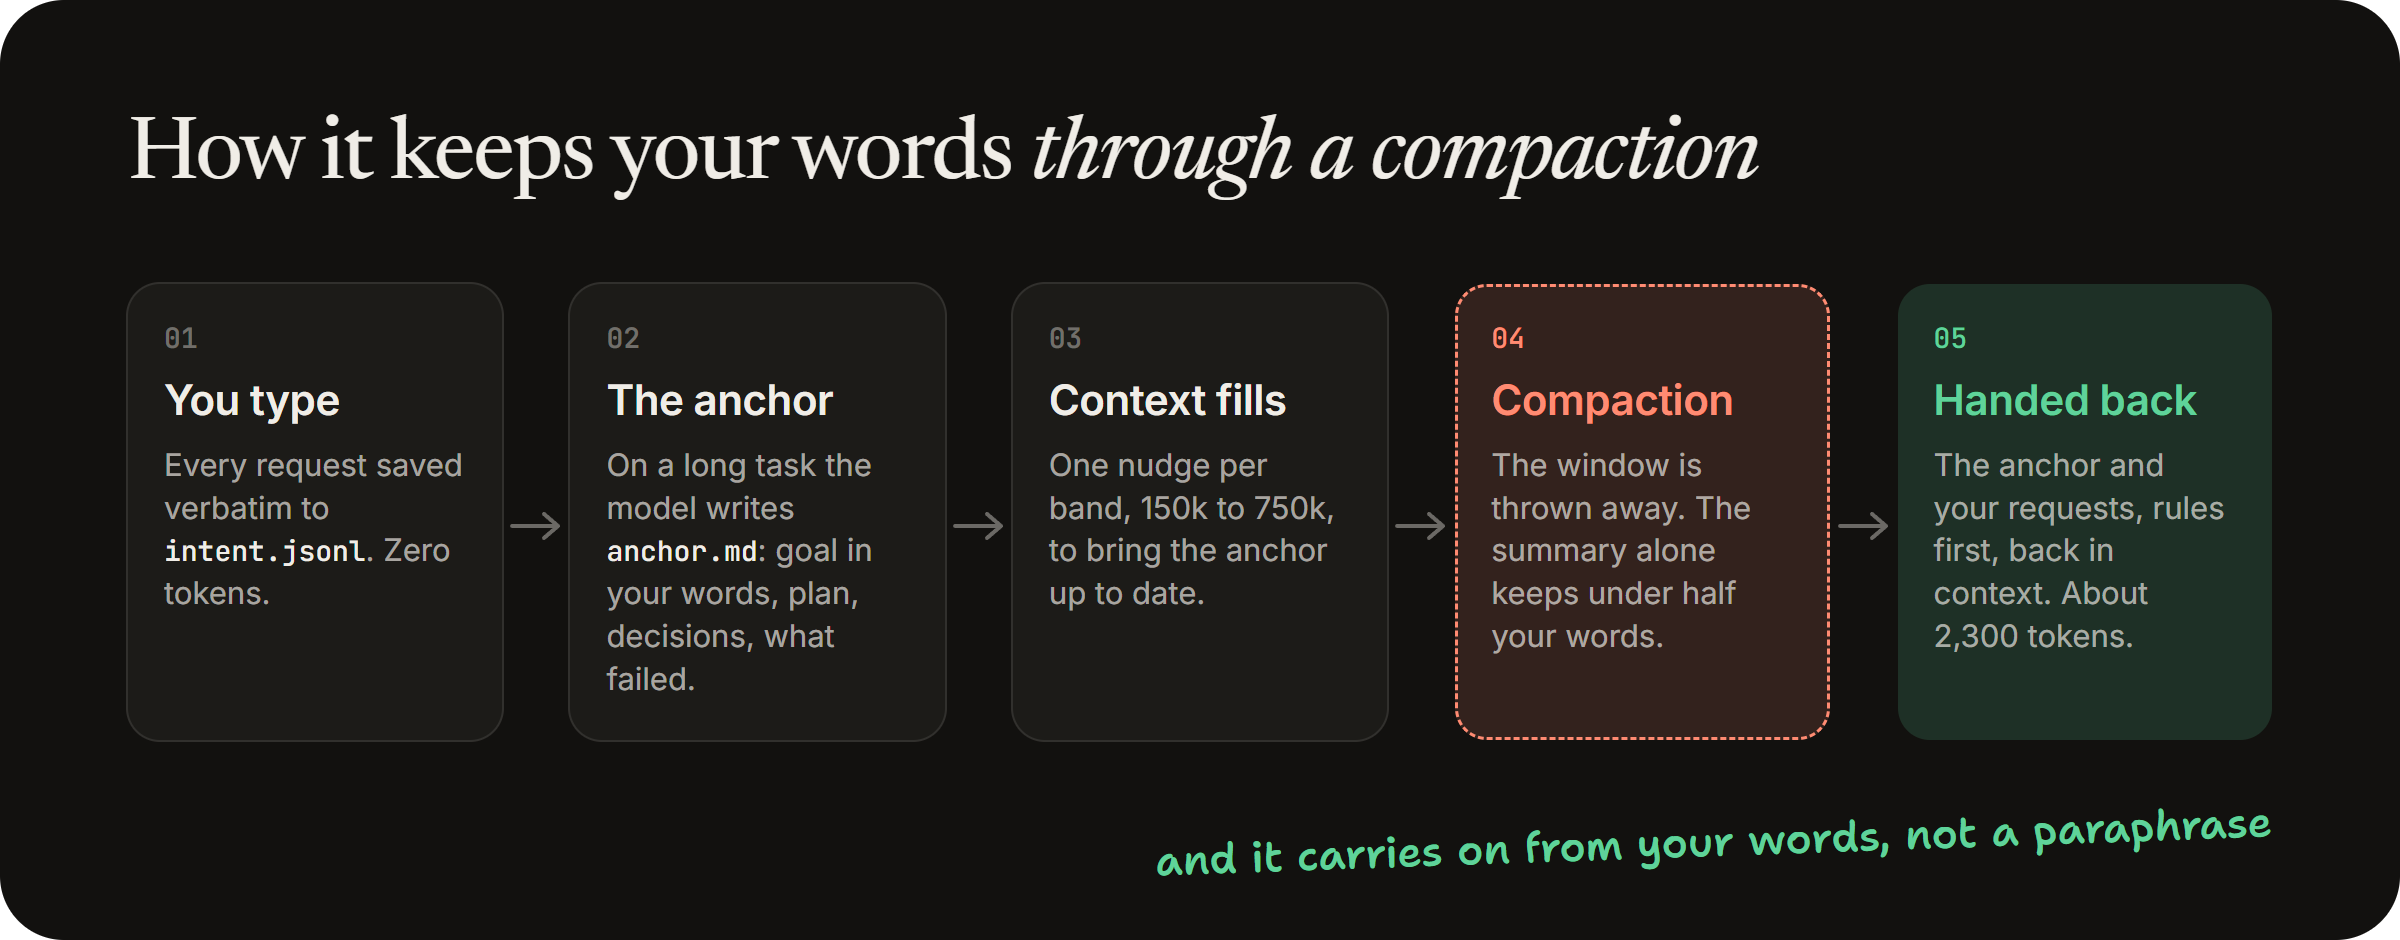
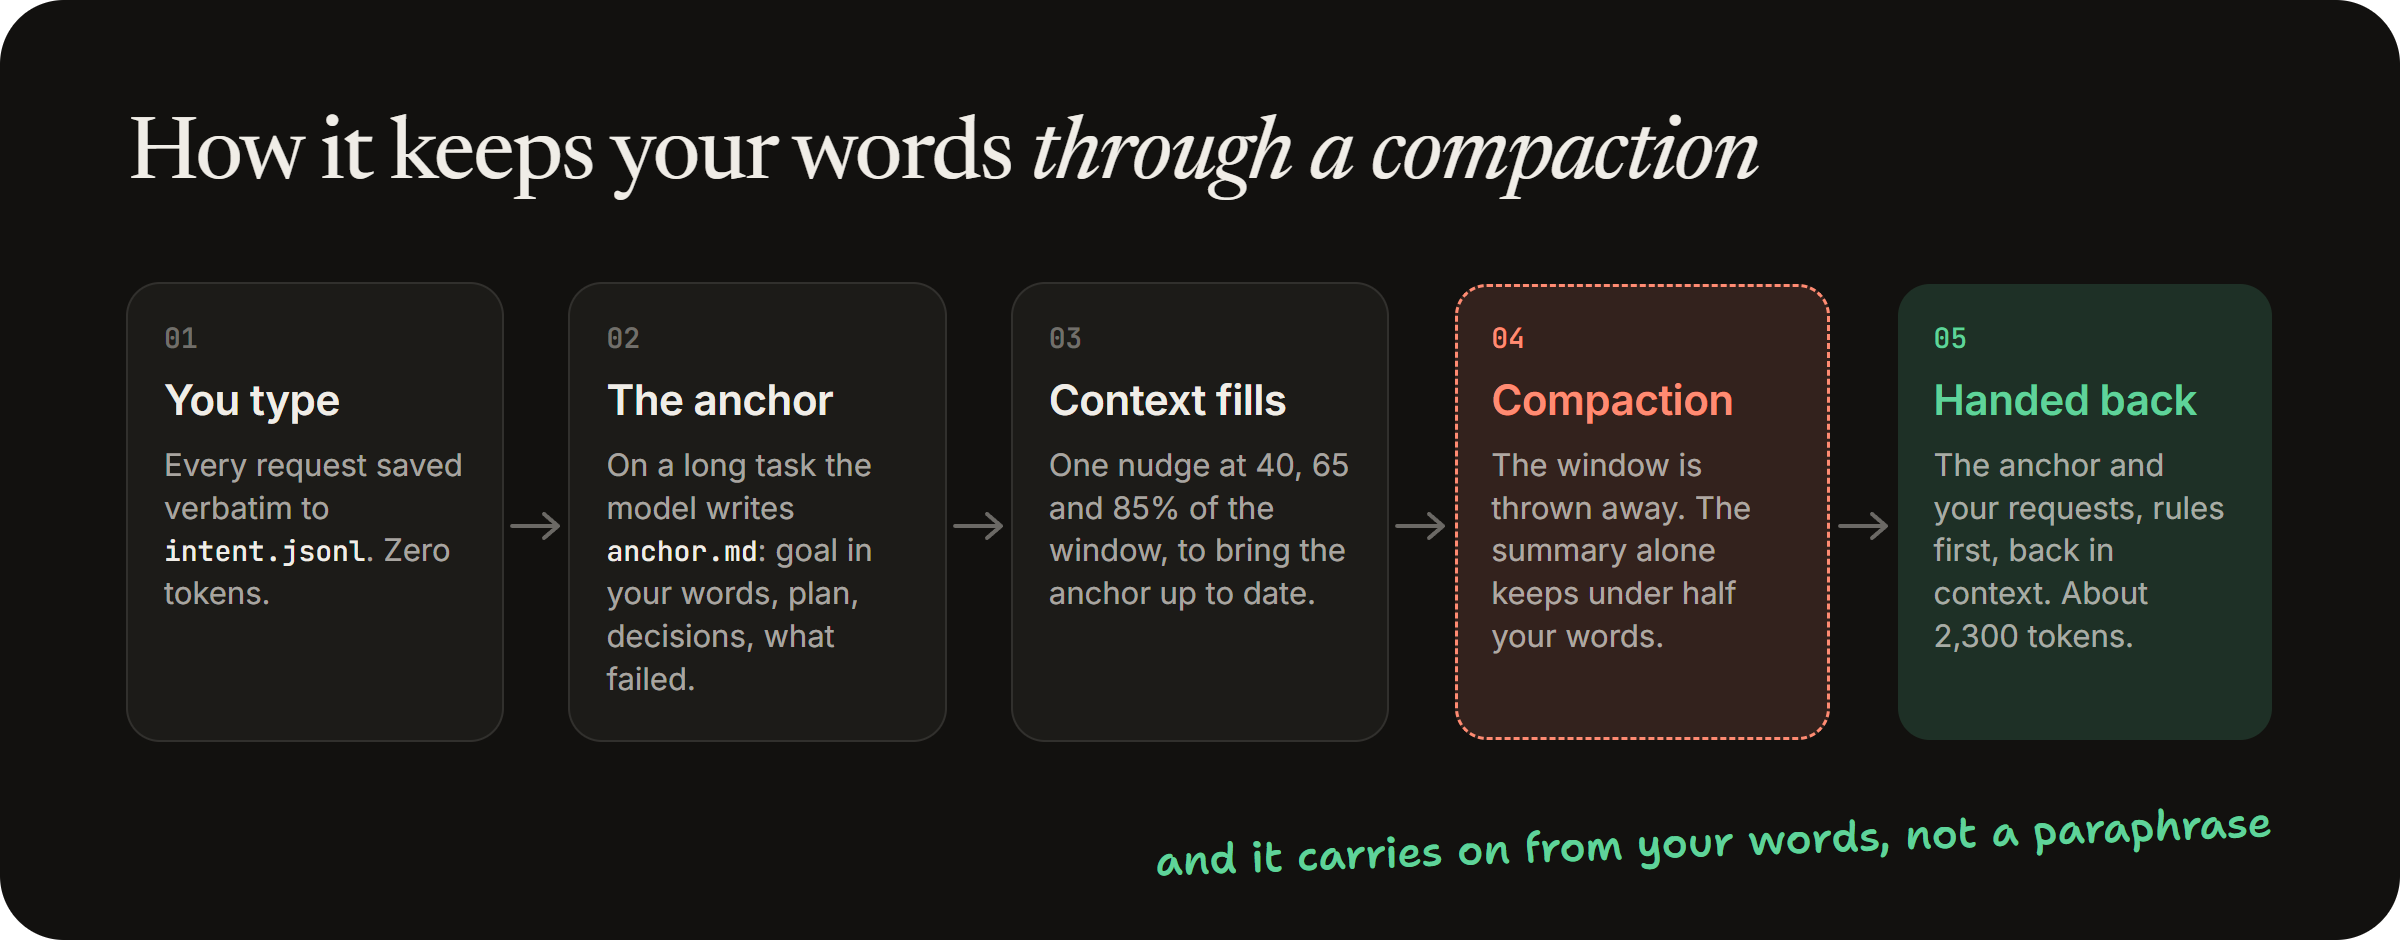
docs(readme): why 400k on a 1M model, drawn: the same work with the window left to fill and with it swept
- figures: window-light/dark in the KLADDS kit; loop figure says 40/65/85% of the window
- render.mjs: FIGS=window,loop renders a subset
- README: '1M is the size of the desk, not the plan' with the picture, the ELI5 and four questions

Changed region(s): [[0.4375, 0.4628, 0.5625, 0.6479]]

diff --git a/figures/src/figures.html b/figures/src/figures.html
@@ -1,8 +1,9 @@
 <!doctype html>
 <!--
   ORDO README figures, in the KLADDS landing kit (paper, ink, one green, one coral; Newsreader, Shantell Sans,
-  JetBrains Mono, Inter). One page draws one figure: ?f=hero|loop|numbers|kladds&t=light|dark.
-  Render all eight PNGs with: node figures/src/render.mjs   (needs Chrome; fonts load from Google Fonts, OFL)
+  JetBrains Mono, Inter). One page draws one figure: ?f=hero|loop|window|numbers|kladds&t=light|dark.
+  Render every PNG with: node figures/src/render.mjs   (needs Chrome; fonts load from Google Fonts, OFL)
+  Render some: FIGS=window,loop node figures/src/render.mjs
   Every number drawn here is in README.md with the script that produced it.
 -->
 <html lang="en">
@@ -96,6 +97,26 @@
   .legend { position: absolute; left: 64px; right: 64px; bottom: 34px; display: flex; gap: 28px; font: 500 14px/1 var(--mono); color: var(--muted); }
   .legend i { display: inline-block; width: 14px; height: 14px; border-radius: 4px; vertical-align: -2px; margin-right: 8px; }
 
+  /* window: the same work, drawn twice. Column height is what gets re-read on that turn. */
+  #window .sheet { height: 690px; }
+  #window h2 { font-size: 44px; line-height: 1.04; }
+  .desks { margin-top: 30px; display: grid; grid-template-columns: 1fr 1fr; gap: 28px; }
+  .desk { position: relative; background: var(--card); border-radius: 18px; box-shadow: var(--lift); padding: 22px 24px 20px; }
+  .desk h3 { font: 600 21px/1.15 var(--sans); letter-spacing: -0.01em; }
+  .desk h3 small { display: block; margin-top: 5px; font: 400 15px/1.3 var(--sans); color: var(--muted); }
+  .plot { position: relative; margin-top: 18px; height: 250px; display: flex; align-items: flex-end; gap: 3px; border-bottom: 1.5px solid var(--hair); }
+  .plot i { flex: 1; border-radius: 3px 3px 0 0; background: var(--faint); }
+  .desk.ordo .plot i { background: var(--green); }
+  .rule { position: absolute; left: 0; right: 0; border-top: 1.5px dashed var(--hair); }
+  .rule span { position: absolute; right: 0; bottom: 4px; font: 500 13px/1 var(--mono); color: var(--faint); background: var(--card); padding-left: 8px; }
+  .desk .note { font-size: 20px; }
+  .desk.ordo .note { color: var(--green); }
+  .facts { margin-top: 26px; display: grid; grid-template-columns: repeat(3, auto) 1fr; gap: 34px; align-items: baseline; }
+  .fact b { font: 600 30px/1 var(--mono); letter-spacing: -0.03em; }
+  .fact span { display: block; margin-top: 6px; font-size: 15px; line-height: 1.3; color: var(--muted); }
+  .facts .src { text-align: right; font: 500 14px/1.5 var(--mono); color: var(--muted); }
+  .facts .src b { color: var(--green); font-weight: 600; }
+
   /* kladds */
   #kladds .sheet { height: 470px; display: grid; grid-template-columns: 1fr 300px; gap: 40px; }
   .blob { position: absolute; width: 520px; height: 520px; border-radius: 50%; background: var(--sage); right: -120px; bottom: -260px; }
@@ -148,7 +169,7 @@
       <svg class="arrow" viewBox="0 0 26 14"><path d="M1 7 H23 M17 1 L24 7 L17 13" fill="none" stroke="currentColor" stroke-width="2" stroke-linecap="round" stroke-linejoin="round"/></svg></div>
     <div class="step"><div class="k">02</div><h3>The anchor</h3><p>On a long task the model writes <code>anchor.md</code>: goal in your words, plan, decisions, what failed.</p>
       <svg class="arrow" viewBox="0 0 26 14"><path d="M1 7 H23 M17 1 L24 7 L17 13" fill="none" stroke="currentColor" stroke-width="2" stroke-linecap="round" stroke-linejoin="round"/></svg></div>
-    <div class="step"><div class="k">03</div><h3>Context fills</h3><p>One nudge per band, 150k to 750k, to bring the anchor up to date.</p>
+    <div class="step"><div class="k">03</div><h3>Context fills</h3><p>One nudge at 40, 65 and 85% of the window, to bring the anchor up to date.</p>
       <svg class="arrow" viewBox="0 0 26 14"><path d="M1 7 H23 M17 1 L24 7 L17 13" fill="none" stroke="currentColor" stroke-width="2" stroke-linecap="round" stroke-linejoin="round"/></svg></div>
     <div class="step cut"><div class="k">04</div><h3>Compaction</h3><p>The window is thrown away. The summary alone keeps under half your words.</p>
       <svg class="arrow" viewBox="0 0 26 14"><path d="M1 7 H23 M17 1 L24 7 L17 13" fill="none" stroke="currentColor" stroke-width="2" stroke-linecap="round" stroke-linejoin="round"/></svg></div>
@@ -176,6 +197,26 @@
       <div class="delta hand">+24</div></div>
   </div>
   <div class="legend"><span><i style="background:var(--faint)"></i>summary alone</span><span><i style="background:var(--green)"></i>summary + ORDO</span><span style="margin-left:auto">node tools/continuity_replay.mjs</span></div>
+</div></section>
+
+<!-- WINDOW -->
+<section class="fig" id="window"><div class="sheet">
+  <h2>1M is how much it can hold.<br><em>You pay for what it holds, every turn.</em></h2>
+  <p class="sub">The same 36 turns of work, drawn twice. Each bar is what Claude re-reads before that step.</p>
+  <div class="desks">
+    <div class="desk"><h3>Let the window fill<small>nothing is swept, so old tool output is re-read forever</small></h3>
+      <div class="plot" id="pa"><div class="rule" style="bottom:100%"><span>1M · what it can hold</span></div></div>
+      <div class="note hand" style="left: 30px; top: 150px; transform: rotate(-3deg);">all of this, again,<br>on every single turn</div></div>
+    <div class="desk ordo"><h3>Compact at 400k, keep the anchor<small>sweep the desk, put back your words and the plan</small></h3>
+      <div class="plot" id="pb"><div class="rule" style="bottom:100%"><span>1M</span></div><div class="rule" style="bottom:40%"><span>400k</span></div></div>
+      <div class="note hand" style="right: 26px; top: 112px; transform: rotate(2deg);">the empty part<br>is the saving</div></div>
+  </div>
+  <div class="facts">
+    <div class="fact"><b>124k</b><span>already on the desk<br>before you type</span></div>
+    <div class="fact"><b>367k</b><span>where a 400k window<br>is swept</span></div>
+    <div class="fact"><b>~240k</b><span>room in between:<br>about one phase of work</span></div>
+    <div class="src"><b>−47.9% context tokens</b>, modeled on 1,510 sessions<br>python tools/continuity_scan.py --window 400000</div>
+  </div>
 </div></section>
 
 <!-- KLADDS -->
@@ -216,6 +257,18 @@
   for (const [id, keep] of [['ga', keepA], ['gb', keepB]]) {
     const g = document.getElementById(id);
     if (g) for (let i = 0; i < 100; i++) { const c = document.createElement('span'); if (keep.has(i)) c.className = 'k'; g.append(c); }
+  }
+  // Window figure: both panels get the same inflow per turn (an illustration, ~23k a turn with a little jitter).
+  // Left never sweeps. Right is swept at 367k and restarts from the base plus the anchor and the restore (~130k).
+  const pa = document.getElementById('pa'), pb = document.getElementById('pb');
+  if (pa && pb) {
+    let a = 124, b = 124;
+    for (let t = 0; t < 36; t++) {
+      const add = 23 * (0.7 + rnd() * 0.6);
+      a = Math.min(a + add, 967); b += add;
+      if (b >= 367) b = 130;
+      for (const [plot, v] of [[pa, a], [pb, b]]) { const bar = document.createElement('i'); bar.style.height = (v / 10) + '%'; plot.append(bar); }
+    }
   }
 </script>
 </body>

diff --git a/README.md b/README.md
@@ -14,6 +14,7 @@
 <p align="center">
   <a href="#install">Install</a> ·
   <a href="#the-problem-measured">The problem</a> ·
+  <a href="#1m-is-the-size-of-the-desk-not-the-plan">Why 400k</a> ·
   <a href="#what-it-does">What it does</a> ·
   <a href="#how-a-session-runs">How a session runs</a> ·
   <a href="#fewer-invented-facts">Fewer invented facts</a> ·
@@ -50,11 +51,7 @@ Recommended with the hooks, if you run a 1M-context model: compact at 400k inste
 { "env": { "CLAUDE_CODE_AUTO_COMPACT_WINDOW": "400000" } }
 ```
 
-Why 400k and not lower: a session is not empty when it starts. Ours measured 124k before the first tool call
-(system prompt, tool lists, CLAUDE.md, skill list), and Claude Code compacts about 33k under the window, so 400k
-leaves roughly 240k of working room, about one phase of real work. Go much lower and the session spends its time
-compacting; go much higher and every turn re-reads stale tool output. The cap is a backstop, not the strategy:
-what keeps paying is a smaller base, less inflow, and compactions that land on a phase boundary. ORDO's nudges
+Why 400k when the model holds 1M: [the desk, explained](#1m-is-the-size-of-the-desk-not-the-plan). ORDO's nudges
 follow whatever window you set (40%, 65%, 85% of it).
 
 Node 18+. Nothing leaves your machine: state lives in `~/.ordo/` (override with `ORDO_HOME`).
@@ -76,6 +73,32 @@ the window is finally compacted, the summary keeps less than half of what you as
 from a paraphrase. That reads as "it ignores my instructions" and "it forgot what we decided". It is not new: the
 numbers are the same before and after the November 3 thinking change people are posting about
 ([`docs/OPUS-NOV-3.md`](docs/OPUS-NOV-3.md) has that story with the billed-token data).
+
+## 1M is the size of the desk, not the plan
+
+<picture>
+  <source media="(prefers-color-scheme: dark)" srcset="figures/window-dark.png">
+  <img src="figures/window-light.png" alt="The same 36 turns of work drawn twice. Left, the window is left to fill: each bar is what Claude re-reads before that step, and the bars climb toward 1M. Right, the window is compacted at 400k and the anchor is kept: the bars stay under 400k and the empty space above them is the saving. 124k is already there before you type, a 400k window is swept at 367k, leaving about 240k of room, roughly one phase of work. Modeled on 1,510 sessions: 47.9% fewer context tokens." width="100%">
+</picture>
+
+Think of the context window as a desk. A 1M-token model has a very big desk. But before every single step, Claude
+re-reads everything on that desk, and most of what piles up there is old tool output it will never need again. A
+fuller desk does not make it smarter. It makes every step a longer re-read, and it buries what you said under what
+a command printed two hours ago.
+
+So ORDO works at 400k. When the desk is about 40% covered it gets swept, and the two things that matter go
+straight back on it: the anchor (goal, plan, decisions, what failed) and your own words. You keep the big desk.
+You stop re-reading the pile.
+
+| Question | Answer |
+|---|---|
+| Is 400k too small for a 1M model? | No. 1M is what it *can* hold; you pay, in tokens and in attention, for what it *does* hold, on every turn |
+| Then why not 200k? | A session is not empty when it starts. Ours measured 124k before the first tool call (system prompt, tool lists, CLAUDE.md, skill list), and Claude Code sweeps about 33k under the window. 400k leaves ~240k of room, about one phase of real work. Much lower and the session spends its time sweeping |
+| When is a bigger window right? | When one thing has to be held whole: a very large single file or log, or one chain of reasoning that cannot be split into phases. Raise it for that session, then go back |
+| And without ORDO's hooks? | Then a sweep costs you your own words (8% survive verbatim), and a bigger window is the safer default. The restore is what makes sweeping early cheap |
+
+The picture is an illustration: both sides get the same inflow per turn. The 47.9% is modeled on the 1,510 real
+sessions (`python tools/continuity_scan.py --window 400000`), not drawn from the picture.
 
 ## What it does
 
